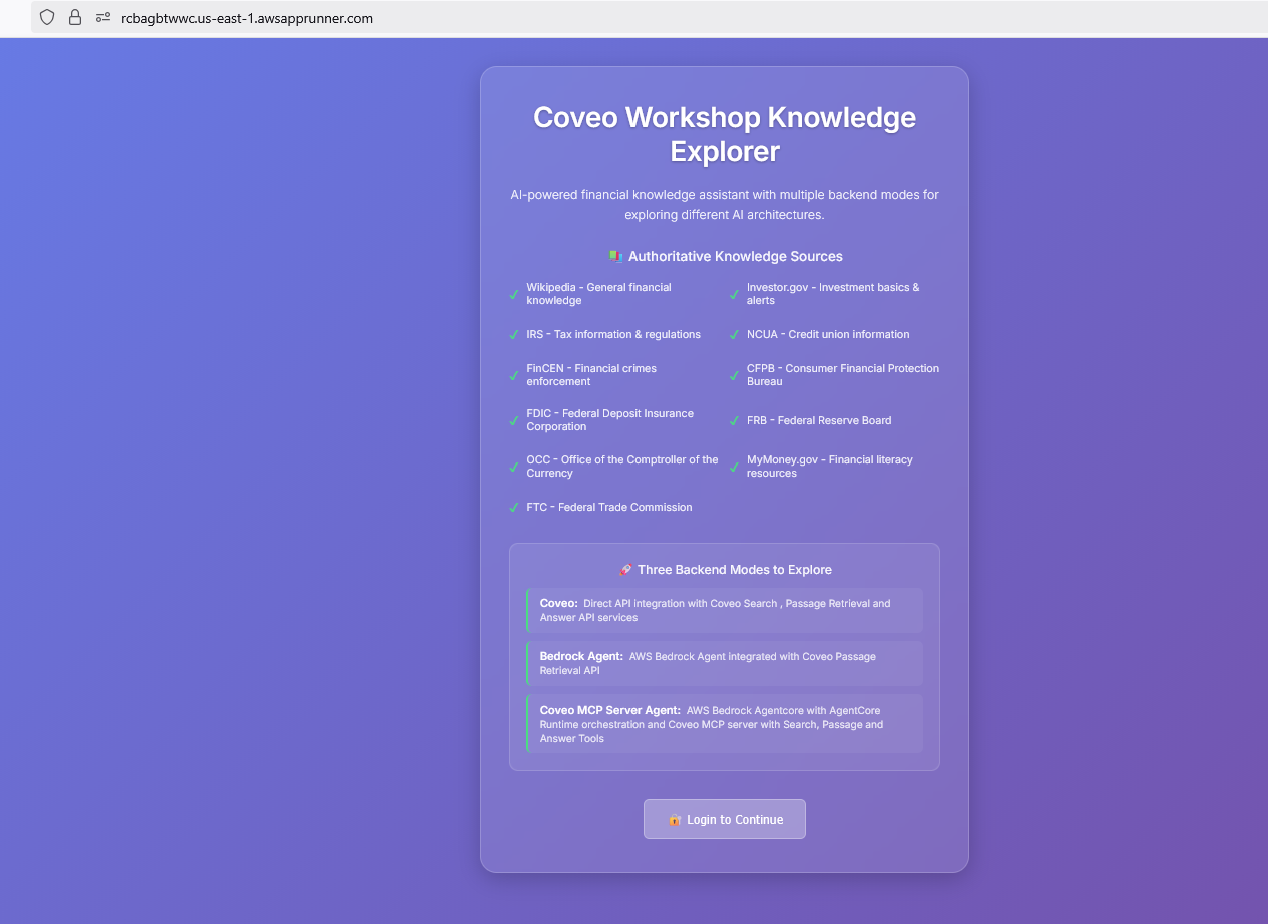
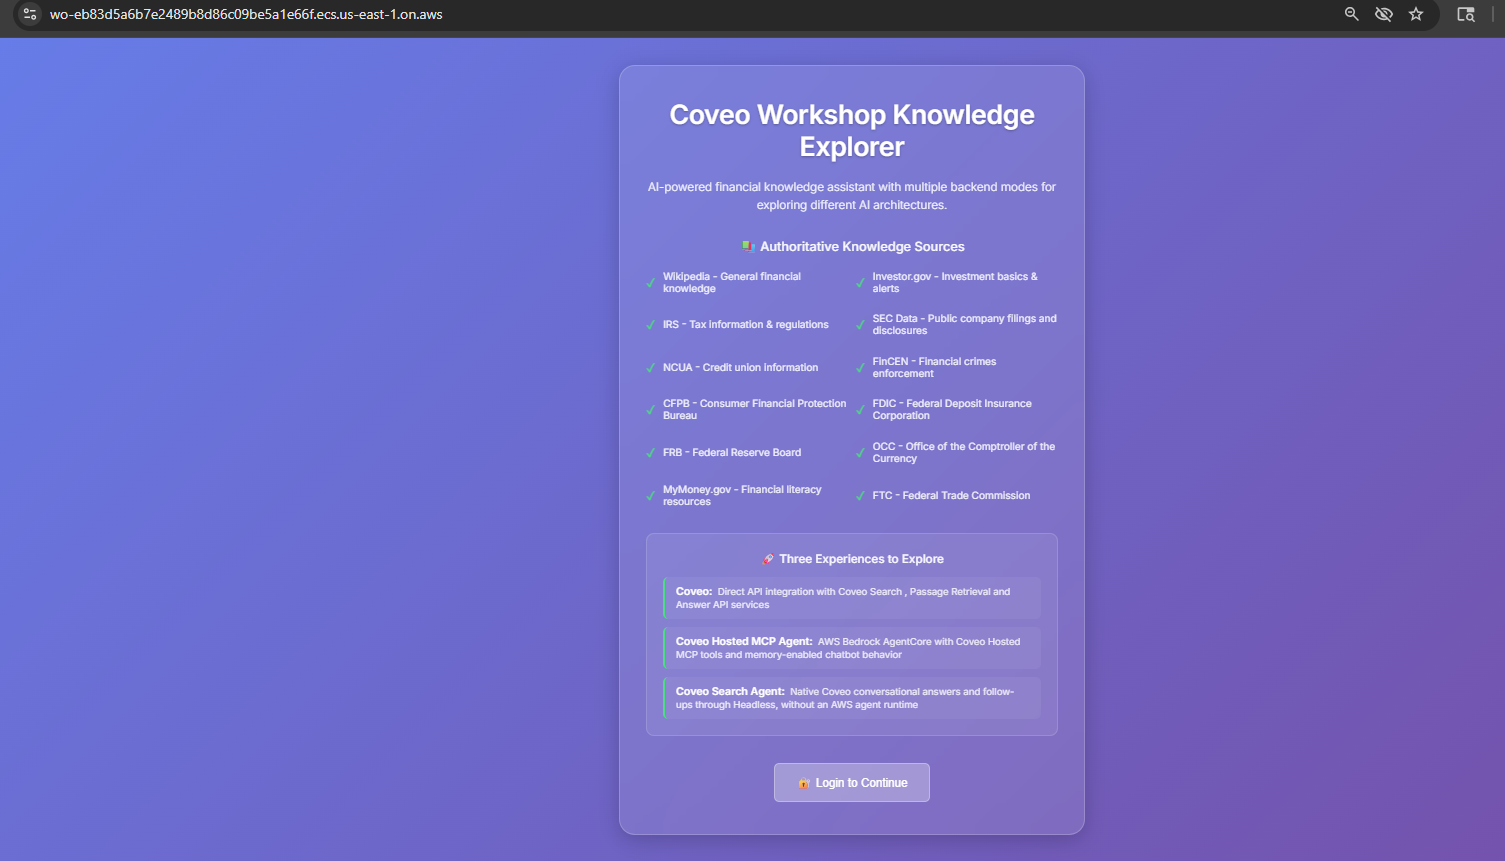
docs: refresh workshop screenshots and lab2 runtime verification guidance

Changed region(s): [[0.3998, 0.2718, 0.7689, 0.9663], [0.0, 0.0, 1.0, 0.0604], [0.4306, 0.1208, 0.7382, 0.2416]]

diff --git a/mkdocs-workshop/docs/lab2/index.md b/mkdocs-workshop/docs/lab2/index.md
@@ -17,16 +17,11 @@ By the end of this lab, you will:
 - Test browser-refresh continuity with the same session ID.
 - End a session, start a new one, and test cross-session recall.
 
-## What This Lab Is Not
-
-This lab does not use the retired Bedrock Agent passage-tool pattern. The live workshop focuses on AgentCore + Hosted MCP as the AWS agent pattern.
-
 ## Architecture
 
 ```mermaid
 graph TB
     UI[Workshop UI Chatbot]
-    BFF[Express BFF]
     API[API Gateway]
     LAMBDA[AgentCore Runtime Lambda]
     RUNTIME[AgentCore Runtime]
@@ -34,8 +29,7 @@ graph TB
     MCP[Coveo Hosted MCP]
     COVEO[Coveo Platform]
 
-    UI --> BFF
-    BFF --> API
+    UI --> API
     API --> LAMBDA
     LAMBDA --> RUNTIME
     RUNTIME <--> MEMORY
@@ -47,21 +41,70 @@ graph TB
 
 1. Log in to the AWS Console.
 2. Navigate to **Amazon Bedrock AgentCore**.
+
+**Bedrock AgentCore Navigation**
+
+![Agentcore Navigation](../images/AgentCore-Navigation-new-1.png)
+Select Amazon Bedrock Agentcore to go to the Amazon Bedrock Agentcore Service page.
+
 3. Open **Agent Runtime**.
+
+**Runtime Navigation**
+
+![Runtime Navigation](../images/AgentCore-Navigation-new-2.png)
+Select 'Runtime' to view the 'workshop_CoveoAgent' runtime page.
+
 4. Select the workshop runtime.
+
+**Runtime Selection**
+
+![Runtime Selection](../images/AgentCore-Navigation-new-3.png)
+Click 'workshop_CoveoAgent' to view the Agent details page. 
+
 5. Confirm that the runtime is deployed and active.
+
+**Runtime Details**
+
+![Runtime Details](../images/AgentCore-Navigation-new-4.png)
+Click 'workshop_CoveoAgent' to view the Agent details page. 
 
 What to observe:
 
-- The runtime hosts the workshop agent container.
-- The runtime invokes Coveo Hosted MCP tools.
+- The Status is 'Ready'.
+- The runtime ARN.
 - Memory is associated with the runtime so conversations can continue across turns and sessions.
+
+6. Confirm that the memory is deployed and active.
+
+**Memory Details**
+
+![Memory Navigation](../images/AgentCore-Navigation-new-5.png)
+Select 'Memory' to view the 'workshop_CoveoAgent_Memory-xxxxxxxxxx' page.
+Verify that the Memoyy Status is 'active'.
+
 
 ## Exercise 2.2: Review Coveo Hosted MCP Configuration
 
 Your instructor will review the Hosted MCP configuration in the Coveo Administration Console.
 
-Expected workshop configuration:
+1. MCP Server Configuration in Coveo Platform Console.
+
+![MCP Server Details](../images/AgentCore-Navigation-new-5.5.png)
+
+2. MCP Server Config and Endpoint in Coveo Platform Console.
+
+![MCP Server Config](../images/AgentCore-Navigation-new-6.png)
+
+3. MCP Server Tools in Coveo Platform Console.
+
+![MCP Server Tools](../images/AgentCore-Navigation-new-7.png)
+
+4. MCP Server Instructions in Coveo Platform Console.
+
+![MCP Server Instructions](../images/AgentCore-Navigation-new-8.png)
+
+
+Expected workshop MCP server configuration:
 
 | Setting | Value |
 |---|---|
@@ -69,6 +112,41 @@ Expected workshop configuration:
 | Search hub | `MCP_Workshop-MCP-server` |
 | Query pipeline | `MCP-Pipeline` |
 | Tooling | Search, Fetch, Answer, Passage Retrieval |
+
+## How The Runtime Knows Which Hosted MCP Endpoint To Use
+
+In this workshop, `workshop_CoveoAgent` does not hardcode the Coveo MCP URL.
+It resolves the endpoint at runtime from AWS Systems Manager Parameter Store.
+
+High-level flow:
+
+1. Deployment scripts seed Hosted MCP values into SSM parameters (for example: endpoint URL, auth mode, API key, config name, search hub).
+2. The AgentCore runtime container reads `/workshop/coveo/hosted-mcp-endpoint` (and related Hosted MCP parameters) from SSM.
+4. The runtime initializes the MCP client with those values and then invokes Hosted MCP tools (`search`, `fetch`, `answer`, `passage`) during chat turns.
+
+Why this matters:
+
+- You can rotate or update MCP endpoint/auth settings in SSM without rebuilding the runtime image.
+- The same runtime code can be reused across environments by changing only parameter values.
+
+## How To Verify In Console
+
+### In AWS Console
+
+1. Open **Systems Manager** -> **Parameter Store**.
+2. Search for parameters under your workshop prefix:
+    - `/workshop/coveo/hosted-mcp-endpoint`    
+3. You can use this direct link to check the hosted MCP endpoint configuation in SSM parameter store.
+    - https://us-east-1.console.aws.amazon.com/systems-manager/parameters/%252Fworkshop%252Fcoveo%252Fhosted-mcp-config-name/description?region=us-east-1&tab=Table
+
+![Coveo Hosted MCP Endpoint](../images/AgentCore-Navigation-new-9.png)
+
+Confirm values match your Coveo Hosted MCP server configuration.
+
+### Optional Log Verification
+
+In CloudWatch logs for `workshop_CoveoAgent`, verify MCP tool call events appear for chat turns (for example, search/answer tool invocations).
+
 
 ## Exercise 2.3: Test The Chatbot
 
@@ -152,4 +230,10 @@ You tested the AgentCore + Coveo Hosted MCP pattern:
 - Same-session recall depends on stable `sessionId`.
 - Cross-session recall depends on stable Cognito identity and finalized/summarized sessions.
 
-Continue to [Lab 3: Native Coveo Search Agent with Headless](../lab3/index.md).
+<div style="text-align: center; margin: 3rem 0;">
+  <a href="../lab3/" class="md-button md-button--primary" style="font-size: 1.1rem; padding: 1rem 2rem;">
+    Lab 3: Native Coveo Search Agent with Headless →
+  </a>
+</div>
+
+In Lab 3, you'll use Coveo Native Search Agent to generate summary response to users question and followups without any third party integrations.

diff --git a/mkdocs-workshop/docs/index.md b/mkdocs-workshop/docs/index.md
@@ -33,23 +33,21 @@ Understand when to use direct Coveo APIs, when to use AWS AgentCore with Coveo H
 
 | Segment | Duration |
 |---|---:|
-| Introduction and setup | 15 min |
+| Introduction and setup | 30 min |
 | Lab 1: Coveo Direct APIs | 20 min |
 | Lab 2: AgentCore + Hosted MCP Chatbot | 25 min |
 | Lab 3: Native Coveo Search Agent | 25 min |
-| Discussion and Q&A | 15 min |
+| Discussion and Q&A | 20 min |
 
-## Architecture At A Glance
-
-**Workshop Architecture at a glance**
+## Architecture
 
 ![Workshop Architecture at a glance](images/Workshop-Architecture.png)
 
 ## Important Positioning
 
 - **Lab 1** shows the raw Coveo building blocks.
-- **Lab 2** shows when AWS AgentCore is useful: agent orchestration, Hosted MCP tools, and memory-enabled sessions.
-- **Lab 3** shows the simplest native conversational search path: Coveo Search Agent with Headless follow-ups and citations.
+- **Lab 2** shows when AWS Bedrock AgentCore is useful: agent orchestration, Hosted MCP tools, and memory-enabled sessions.
+- **Lab 3** shows the simplest native Coveo conversational search path: Coveo Search Agent with Headless follow-ups and citations.
 
 
 ## Prerequisites